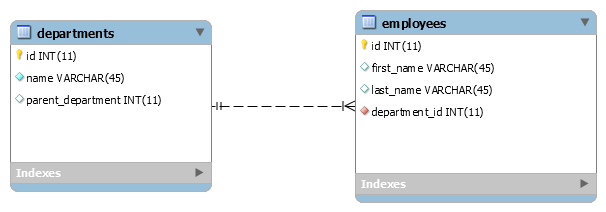
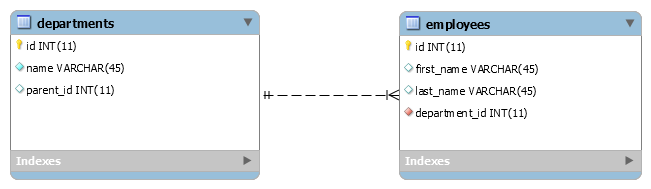
docs: change sql scripts and db`s diagram
Changed:
 - name of column 'parent_department' on 'parent_id'
 - new DB.png

Changed region(s): [[0.3564, 0.0265, 1.0, 0.9788], [0.0, 0.0529, 0.4158, 0.9524]]

diff --git a/README.md b/README.md
@@ -11,7 +11,7 @@ CREATE SCHEMA IF NOT EXISTS `department_management` DEFAULT CHARACTER SET utf8 ;
 CREATE TABLE `department_management`.`departments` (
   `id` INT NOT NULL AUTO_INCREMENT,
   `name` VARCHAR(45) NOT NULL,
-  `parent_department` INT NULL,
+  `parent_id` INT NULL,
   PRIMARY KEY (`id`));
 ```
 
